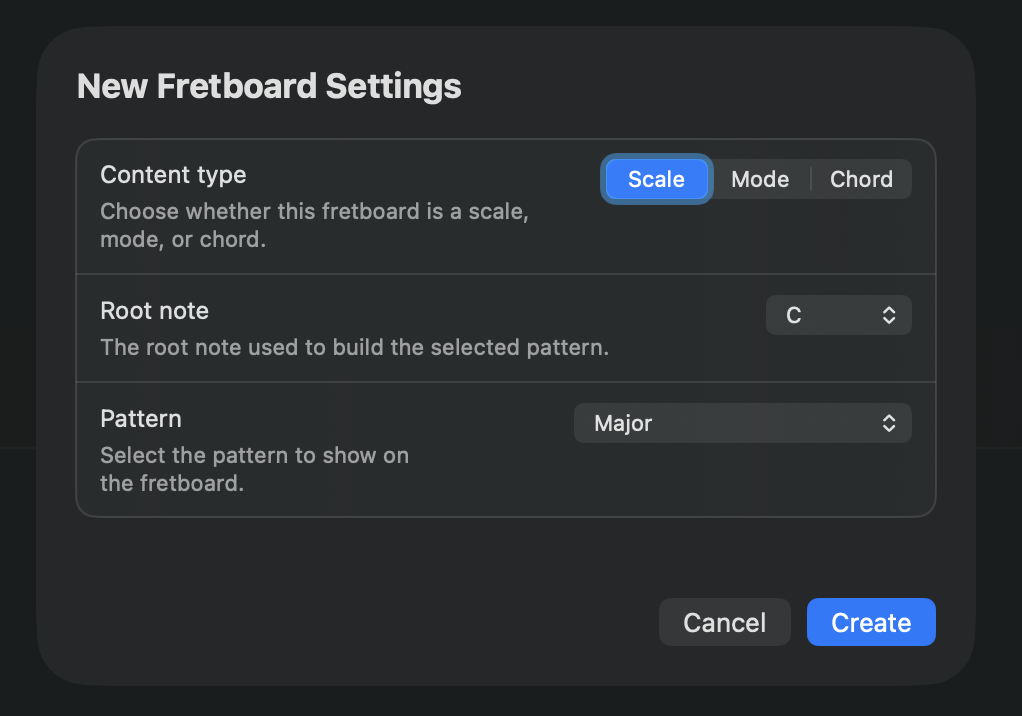
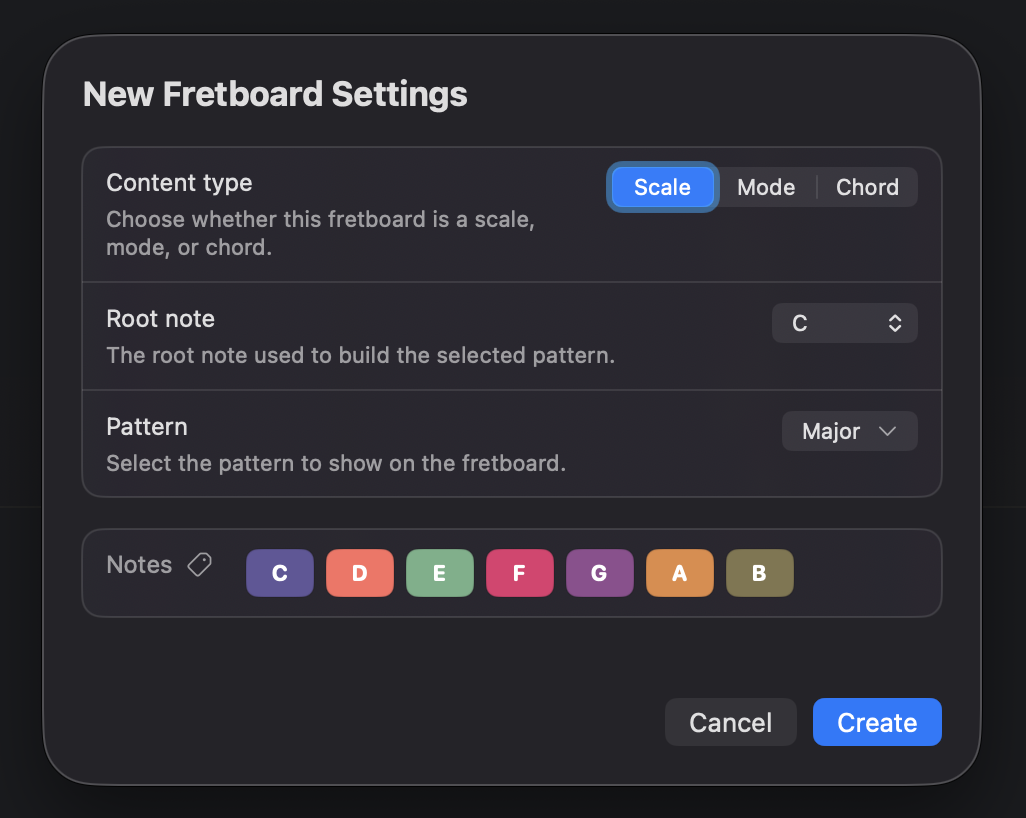
company registration info

diff --git a/index.html b/index.html
@@ -49,7 +49,7 @@
             Think of Frettly as Pages, not for text but for fretboards.
           </h2>
           <h2>
-            Frettly isn't just a scale and chord library - its a persistent, document-based
+            Frettly isn't just a scale and chord library - it's a persistent, document-based
             workspace designed by a player, for players. Whether you are composing a
             complex jazz piece, teaching a student, or exploring a new tuning on your
             banjo, Frettly organises your theory explorations into easily read, playable, 
@@ -111,8 +111,7 @@
           </ul>
 
           <div class="meta">
-            If you’re a fellow guitar theory tinkerer, your feedback on
-            workflows and visualisation will be especially welcome.
+            Any feedback or ideas on Frettly workflows, visualisation, usability or improvments is welcome, please drop us a line.
           </div>
         </div>
       </section>
@@ -120,14 +119,16 @@
      
 
       <div class="meta">
-        <p><strong> About Efford Studio Limited</strong></p>
+        <p><strong>Frettly is a product of Efford Studio Limited</strong></p>
         <p>
-          Efford Studio Limited is an independent UK software studio focused on thoughtfully crafted tools for musicians.
+          Efford Studio Limited is an independent UK software studio focused on thoughtfully crafted tools for musicians and creatives.
         </p>
       </div>
 
       <footer>
-        &copy; <span id="year"></span> Efford Studio Limited. Frettly app and site content. All rights reserved.
+        &copy; <span id="year"></span> Efford Studio Limited. Frettly app and site content. All rights reserved.<br>
+        Registered in England and Wales • Company number 17037547<br>
+        Registered office: West Efford Cottage, Efford, Shobrooke, Crediton, Devon, EX17 1BN
       </footer>
       <div id="lightbox" class="lightbox" aria-hidden="true">
         <div class="lightbox-inner">

diff --git a/purchase-frettly.html b/purchase-frettly.html
@@ -32,7 +32,7 @@
     <section class="card">
 <h2>Why Go Pro?</h2>
 <p>
-  Frettly started life as a personal project to help me understand the guitar through clear visualisation, 
+  Frettly started life as a personal project to help understand the guitar through clear visualisation, 
   interactivity and application of music theory. Frettly Pro is the document-based realisation of that desire, allowing you to save
   multiple scale/chord/mode fretboards within individual documents — built for players who want to explore scales,
   chords and tunings with flexible features and interactive audio.
@@ -95,7 +95,7 @@
           Real-world feedback is what will shape Frettly Pro and the updates that follow.
         </p>
         <p>
-          Email me at:
+          Email us at:
           <span class="email">[email redacted]</span>
         </p>
       </div>
@@ -106,7 +106,9 @@
 
 
       <footer>
-        &copy; <span id="year"></span> Efford Studio Limited. Frettly app and site content. All rights reserved.
+        &copy; <span id="year"></span> Efford Studio Limited. Frettly app and site content. All rights reserved.<br>
+        Registered in England and Wales • Company number 17037547<br>
+        Registered office: West Efford Cottage, Efford, Shobrooke, Crediton, Devon, EX17 1BN
       </footer>
       <script>
         document.getElementById("year").textContent =

diff --git a/help/document-window-overview.html b/help/document-window-overview.html
@@ -233,7 +233,9 @@
 
 
       <footer>
-        &copy; <span id="year"></span> Efford Studio Limited. Frettly app and site content. All rights reserved.
+        &copy; <span id="year"></span> Efford Studio Limited. Frettly app and site content. All rights reserved.<br>
+        Registered in England and Wales • Company number 17037547<br>
+        Registered office: West Efford Cottage, Efford, Shobrooke, Crediton, Devon, EX17 1BN
       </footer>
       <script src="/lightbox.js"></script>
       <script>

diff --git a/help/editing-essentials.html b/help/editing-essentials.html
@@ -148,7 +148,9 @@
 
 
       <footer>
-        &copy; <span id="year"></span> Efford Studio Limited. Frettly app and site content. All rights reserved.
+        &copy; <span id="year"></span> Efford Studio Limited. Frettly app and site content. All rights reserved.<br>
+        Registered in England and Wales • Company number 17037547<br>
+        Registered office: West Efford Cottage, Efford, Shobrooke, Crediton, Devon, EX17 1BN
       </footer>
       <script src="/lightbox.js"></script>
       <script>

diff --git a/help/fretboard-panels-overview.html b/help/fretboard-panels-overview.html
@@ -380,7 +380,9 @@
 
 
       <footer>
-        &copy; <span id="year"></span> Efford Studio Limited. Frettly app and site content. All rights reserved.
+        &copy; <span id="year"></span> Efford Studio Limited. Frettly app and site content. All rights reserved.<br>
+        Registered in England and Wales • Company number 17037547<br>
+        Registered office: West Efford Cottage, Efford, Shobrooke, Crediton, Devon, EX17 1BN
       </footer>
       <script src="/lightbox.js"></script>
       <script>

diff --git a/help/frettly-settings.html b/help/frettly-settings.html
@@ -184,7 +184,9 @@
 
 
       <footer>
-        &copy; <span id="year"></span> Efford Studio Limited. Frettly app and site content. All rights reserved.
+        &copy; <span id="year"></span> Efford Studio Limited. Frettly app and site content. All rights reserved.<br>
+        Registered in England and Wales • Company number 17037547<br>
+        Registered office: West Efford Cottage, Efford, Shobrooke, Crediton, Devon, EX17 1BN
       </footer>
       <script src="/lightbox.js"></script>
       <script>

diff --git a/help/getting-started.html b/help/getting-started.html
@@ -265,7 +265,9 @@ for the selected instrument.</li>
       </section>
 
       <footer>
-        &copy; <span id="year"></span> Efford Studio Limited. Frettly app and site content. All rights reserved.
+        &copy; <span id="year"></span> Efford Studio Limited. Frettly app and site content. All rights reserved.<br>
+        Registered in England and Wales • Company number 17037547<br>
+        Registered office: West Efford Cottage, Efford, Shobrooke, Crediton, Devon, EX17 1BN
       </footer>
       <div id="lightbox" class="lightbox" aria-hidden="true">
         <div class="lightbox-inner">

diff --git a/help/index.html b/help/index.html
@@ -89,7 +89,9 @@ expect to see in the app.
 
 
       <footer>
-        &copy; <span id="year"></span> Efford Studio Limited. Frettly app and site content. All rights reserved.
+        &copy; <span id="year"></span> Efford Studio Limited. Frettly app and site content. All rights reserved.<br>
+        Registered in England and Wales • Company number 17037547<br>
+        Registered office: West Efford Cottage, Efford, Shobrooke, Crediton, Devon, EX17 1BN
       </footer>
       <script>
         document.getElementById("year").textContent =

diff --git a/help/instruments.html b/help/instruments.html
@@ -199,7 +199,9 @@
 
 
       <footer>
-        &copy; <span id="year"></span> Efford Studio Limited. Frettly app and site content. All rights reserved.
+        &copy; <span id="year"></span> Efford Studio Limited. Frettly app and site content. All rights reserved.<br>
+        Registered in England and Wales • Company number 17037547<br>
+        Registered office: West Efford Cottage, Efford, Shobrooke, Crediton, Devon, EX17 1BN
       </footer>
       <script src="/lightbox.js"></script>
       <script>

diff --git a/privacy.html b/privacy.html
@@ -128,7 +128,9 @@
 
 
       <footer>
-        &copy; <span id="year"></span> Efford Studio Limited. Frettly app and site content. All rights reserved.
+        &copy; <span id="year"></span> Efford Studio Limited. Frettly app and site content. All rights reserved.<br>
+        Registered in England and Wales • Company number 17037547<br>
+        Registered office: West Efford Cottage, Efford, Shobrooke, Crediton, Devon, EX17 1BN
       </footer>
       <script>
         document.getElementById("year").textContent =